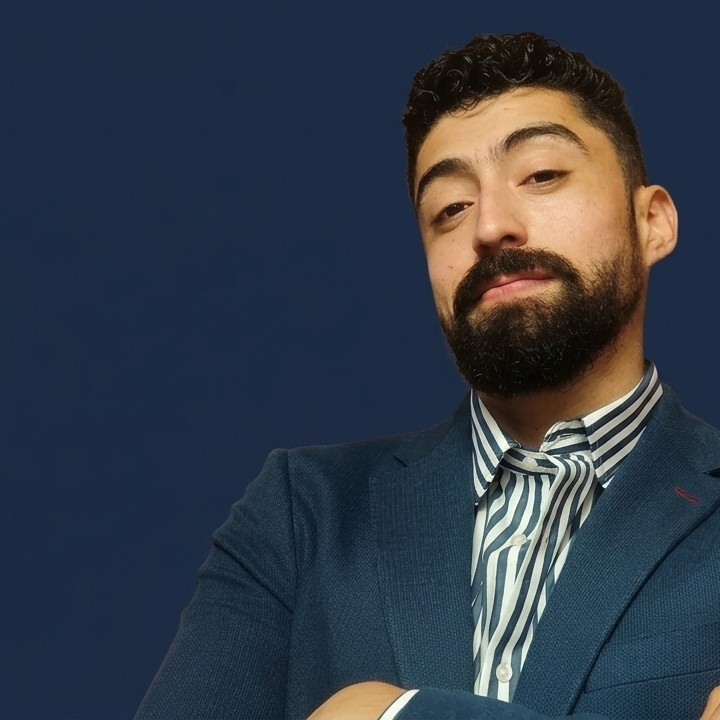
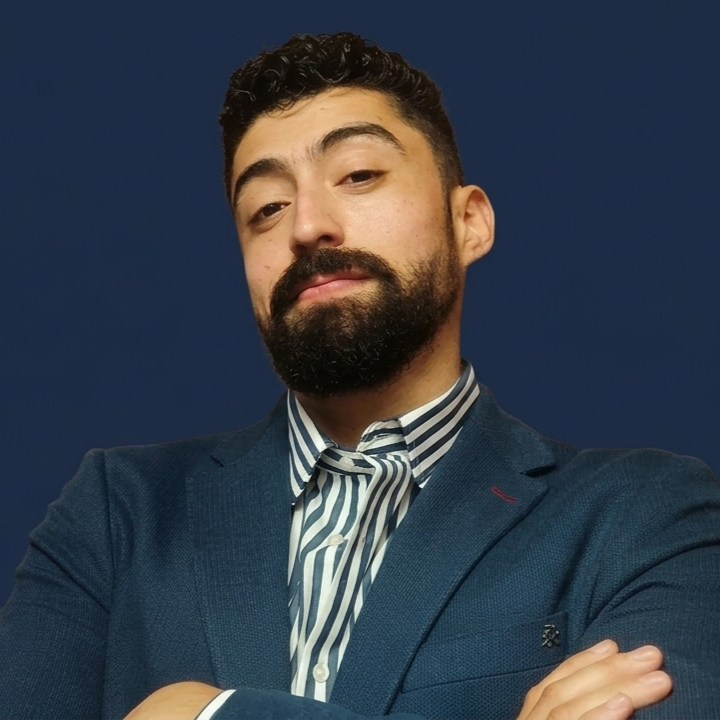
Use properly cropped Camilo photo, remove object-position hack

diff --git a/index.html b/index.html
@@ -1087,7 +1087,7 @@
 
         <div class="team-member fade-up stagger-3">
           <div class="team-avatar">
-            <img src="img/camilo.jpg" alt="Camilo Acencio" style="object-position: 20% 25%;" />
+            <img src="img/camilo.jpg" alt="Camilo Acencio" />
           </div>
           <h3>Ing. Camilo Acencio</h3>
           <p class="team-role">Full Stack &middot; Backend &amp; DevOps</p>
